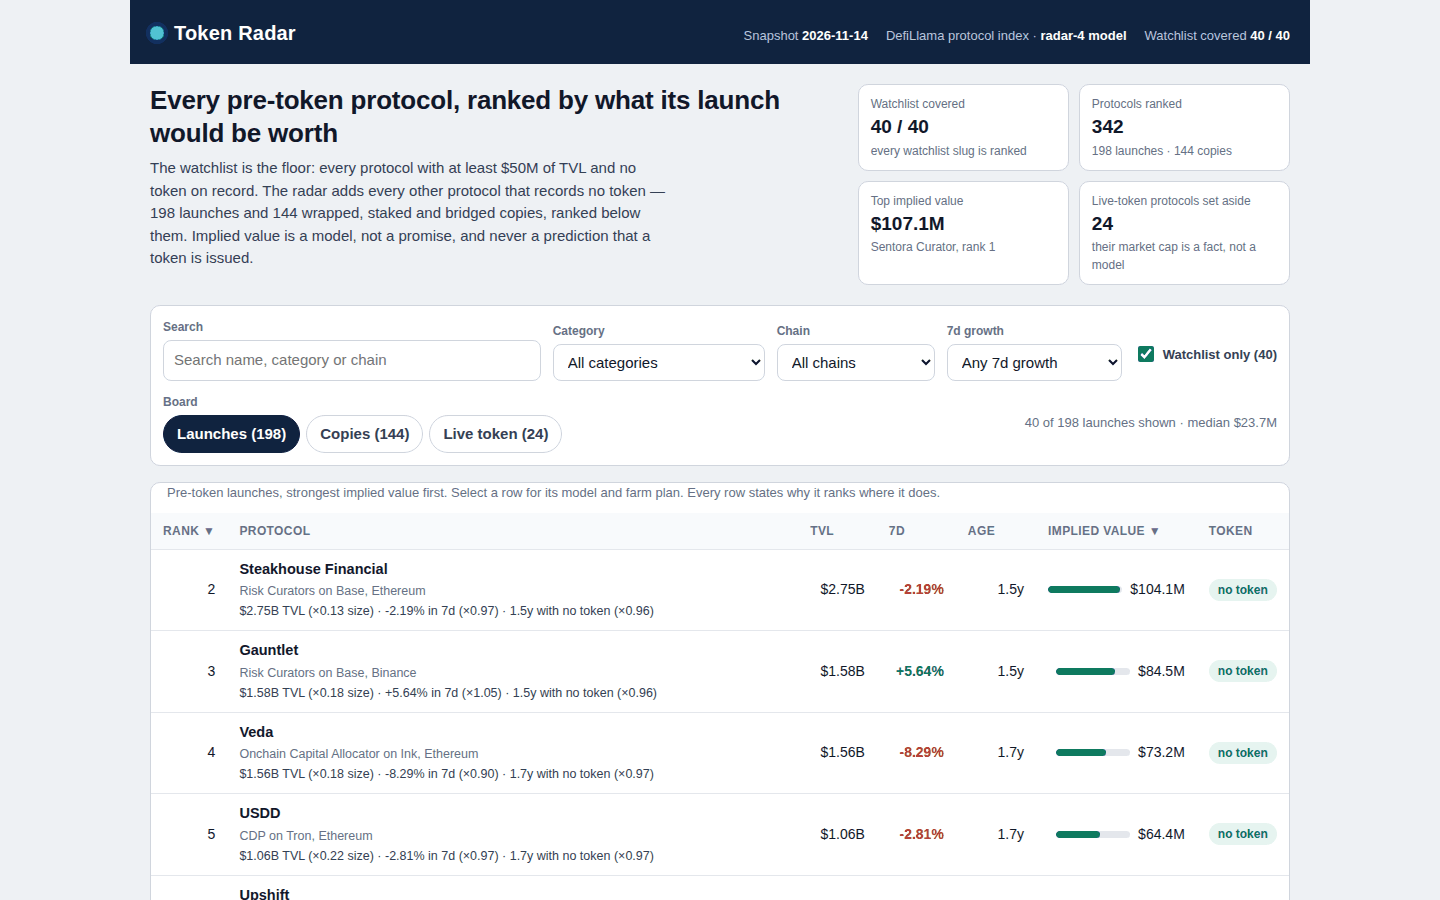
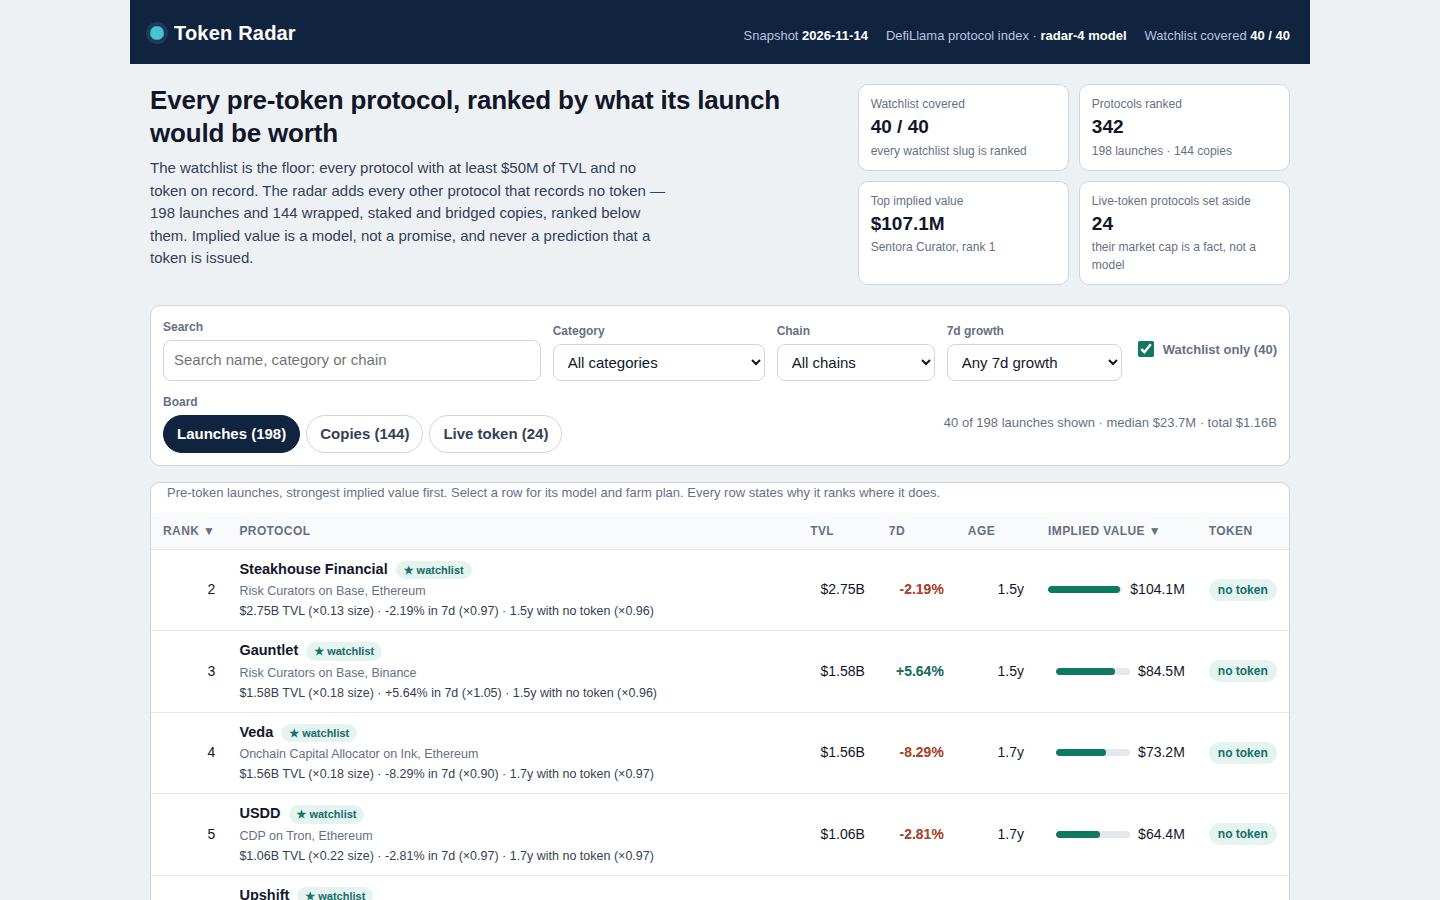
Quality round 3: model checked against the market, live mcap/TVL column, watchlist stars, filtered totals, farm step-2 TVL multiple
- Model (radar-4 formula unchanged, so the version label stays): the size
  curve is now checked against the snapshot's own 128 live-token protocols
  in the model panel - median error x3.7, 43/128 within 2x, 57 within 3x,
  median live protocol at 0.92x the curve. Audit showed no further model
  gain: exponent 0.52 beats 0.50 by ~1% (noise), quadratic term +2.5%,
  chain count corr 0.05, category factors neutral out-of-sample.
- Live tab gains a sortable Mcap/TVL column: the reader sees the shrinking
  share the size curve is fitted on instead of taking the model's word.
- Board rows on the watchlist wear a star badge; the count line adds the
  filtered set's total (board 198/198 median $8.9M total $2.70B).
- Farm step 2 states the position next to the protocol's own TVL as a
  multiple (10,000x-105,000,000x), so the exit is small next to the protocol.
- Detail screenshot is now 1440x1300 so all seven farm steps are visible.
Gate VALID=1 7/7, determinism byte-identical x3, tsc --strict 0 errors.
Top 3 and USDD rank 5 unchanged; 0 rank/implied diffs, only step-2 text
changed on all 342 rows.

diff --git a/dashboard/app.js b/dashboard/app.js
@@ -13,7 +13,10 @@
 //
 // Value grows with the square root of TVL, not linearly: the snapshot's own live-token
 // protocols trade at a median 0.89x TVL at $5-10M of TVL, 0.37x at $10-32M, 0.21x at
-// $33-95M and 0.05x above $108M, so a linear share overvalues the giants about 6x. The
+// $33-95M and 0.05x above $108M, so a linear share overvalues the giants about 6x.
+// Checked against the same 128 live-token protocols, the curve lands within 2x of the
+// market cap for 43 of them and the median live protocol sits at 0.92x the curve, so
+// the curve is centred on the typical protocol, not any single one. The
 // growth term is bounded because the TVL already records the week's move: one week of
 // momentum never erases more than half the value that remains or adds more than 60%.
 // The category factor is fitted from the same snapshot's live protocols (at most
@@ -45,6 +48,14 @@
     if (days === null || days === undefined) return 'unknown';
     if (days >= 365) return (days / 365).toFixed(1) + 'y';
     return Math.max(0, Math.round(days)) + 'd';
+  }
+  // What the market already pays for a live protocol's TVL: the same ratio the size
+  // curve is fitted on, shown on the Live tab so the reader sees the shrinking share
+  // with their own eyes instead of taking the model's word for it.
+  function fmtRatio(r) {
+    if (r.mcap_usd === null || r.mcap_usd === undefined || !r.tvl_usd) return 'n/a';
+    var v = r.mcap_usd / r.tvl_usd;
+    return '×' + (v >= 0.1 ? v.toFixed(2) : v.toFixed(3));
   }
   // The model in one function: TVL, seven-day growth, age with no token and the
   // category factor — nothing else. Value grows with the square root of TVL: the
@@ -146,6 +157,7 @@
     growth: function (r) { return r.change_7d === null ? -Infinity : r.change_7d; },
     age: function (r) { return r.age_days === null ? Infinity : r.age_days; },
     mcap: function (r) { return r.mcap_usd === null ? -Infinity : r.mcap_usd; },
+    ratio: function (r) { return r.mcap_usd === null || !r.tvl_usd ? -Infinity : r.mcap_usd / r.tvl_usd; },
     implied: function (r) { return r.implied_value_usd === undefined ? (r.mcap_usd || 0) : r.implied_value_usd; }
   };
   function sortedRows(list) {
@@ -209,6 +221,9 @@
     // leaves, so a reader sees whether the filter kept the giants or the tail.
     var medians = shownRows.map(function (r) { return r.implied_value_usd === undefined ? (r.mcap_usd || 0) : r.implied_value_usd; }).sort(function (a, b) { return a - b; });
     var medianText = medians.length ? ' · median ' + fmtUsd(medians[Math.floor(medians.length / 2)]) : '';
+    // And the set's total, so the reader sees the whole weight of what the filter kept.
+    var totalValue = shownRows.reduce(function (s, r) { return s + (r.implied_value_usd === undefined ? (r.mcap_usd || 0) : r.implied_value_usd); }, 0);
+    var totalText = shownRows.length ? ' · total ' + fmtUsd(totalValue) : '';
     // The watchlist toggle: the 40 watchlist protocols alone, so a reader can check the
     // floor the board promises without the 302 other rows in the way.
     var wlBox = el('input', { type: 'checkbox', id: 'watchlist-only', 'aria-label': 'Watchlist only' });
@@ -222,7 +237,7 @@
       el('label', { class: 'check', for: 'watchlist-only' }, wlBox, ' Watchlist only (' + DATA.watchlist_size + ')'),
       el('div', { class: 'field' }, el('span', { class: 'sub', text: 'Board' }),
         el('div', { class: 'tabs' }, tabBtn('launch', 'Launches (' + DATA.launch_size + ')'), tabBtn('copy', 'Copies (' + DATA.copy_size + ')'), tabBtn('live', 'Live token (' + DATA.live_size + ')'))),
-      el('span', { class: 'count', text: shown + ' of ' + total + ' ' + tabLabel + ' shown' + medianText })
+      el('span', { class: 'count', text: shown + ' of ' + total + ' ' + tabLabel + ' shown' + medianText + totalText })
     );
   }
 
@@ -247,8 +262,12 @@
     return r.chains && r.chains.length ? r.chains.slice(0, 2).join(', ') : 'an unnamed chain';
   }
   function nameCell(r, reason) {
+    // A watchlist row wears its star in the board: the reader sees at a glance which
+    // rows are the floor the board promises, without turning the filter on.
+    var title = el('div', { class: 'name-row' }, el('b', { text: r.name }));
+    if (r.watchlist) title.appendChild(el('span', { class: 'wl', text: '★ watchlist' }));
     return el('div', { class: 'name' },
-      el('b', { text: r.name }),
+      title,
       el('span', { class: 'sub', text: (r.category || 'Other') + ' on ' + chainText(r) }),
       el('div', { class: 'reason', text: reason }));
   }
@@ -318,6 +337,7 @@
         el('td', { class: 'num', text: fmtUsd(r.tvl_usd) }),
         el('td', { class: 'num ' + (r.change_7d !== null && r.change_7d >= 0 ? 'pos' : 'neg'), text: fmtPct(r.change_7d) }),
         el('td', { class: 'num', text: fmtUsd(r.mcap_usd) }),
+        el('td', { class: 'num', text: fmtRatio(r) }),
         el('td', null, el('span', { class: 'status live', text: 'already trades' }))
       ));
     });
@@ -325,7 +345,7 @@
       el('div', { class: 'table-wrap' },
         el('table', null,
           el('caption', { text: 'Tokens that already trade, by market cap. Their market cap is a fact, not a model, so they are set aside from the pre-token ranking instead of mixed into it.' }),
-          el('thead', null, el('tr', null, el('th', { scope: 'col', text: 'Status' }), sortHeader('name', 'Protocol'), sortHeader('tvl', 'TVL'), sortHeader('growth', '7d'), sortHeader('mcap', 'Market cap'), el('th', { scope: 'col', text: 'Token' }))),
+          el('thead', null, el('tr', null, el('th', { scope: 'col', text: 'Status' }), sortHeader('name', 'Protocol'), sortHeader('tvl', 'TVL'), sortHeader('growth', '7d'), sortHeader('mcap', 'Market cap'), sortHeader('ratio', 'Mcap / TVL'), el('th', { scope: 'col', text: 'Token' }))),
           tbody
         )
       )
@@ -346,7 +366,12 @@
             return el('tr', null, el('td', { text: r[0] }), el('td', { class: 'num', text: r[1] }), el('td', { class: 'num', text: r[2] }));
           })
         )
-      )
+      ),
+      // Checked against the market, from the sealed snapshot's own 128 live-token
+      // protocols (builder audit: median |log(market cap / curve)| 1.314, so a median
+      // error of x3.7; 43 of 128 within 2x, 57 within 3x; median signed log residual
+      // -0.088, so the median live protocol sits at 0.92x the curve).
+      el('p', { text: 'Checked against the market: the same curve predicts the 128 live-token protocols\u2019 market caps with a median error of \u00d73.7 \u2014 43 of the 128 land within 2\u00d7 of their market cap, 57 within 3\u00d7, and the median live protocol sits at 0.92\u00d7 the curve, so the curve is centred on the typical protocol. Market caps scatter widely at any TVL, so the curve tracks the median protocol \u2014 which is what a ranking needs \u2014 not any single one.' })
     );
     // The category factors the snapshot fitted: only categories with 5 or more live
     // protocols get one, shrunk toward 1 and clamped to 0.80–1.25.

diff --git a/lib/model.ts b/lib/model.ts
@@ -624,6 +624,13 @@ function rewardFor(c: string): string {
   return 'points';
 }
 
+/** A TVL in the short form the farm plan uses: $2.76B, $499.1M, $5.2M. */
+function tvlText(tvl: number): string {
+  if (tvl >= 1e9) return `$${(tvl / 1e9).toFixed(2)}B`;
+  if (tvl >= 1e6) return `$${(tvl / 1e6).toFixed(1)}M`;
+  return `$${Math.round(tvl / 1e3)}K`;
+}
+
 /** How much of the chain's gas token one farm wallet needs to start, in that token. */
 function gasTokenFor(chain: string): string {
   const c = chain.toLowerCase();
@@ -672,7 +679,9 @@ function exitActionFor(p: SnapshotProtocol, chain: string): string {
  * (see rewardFor), so every step carries a number the reader can check, not a slogan.
  * The main step also names the protocol's other chains when it runs on more than
  * one, the weekly step says how many weeks to repeat it, and the hold step states
- * the all-in total — capital plus gas — so the reader knows the whole outlay.
+ * the all-in total — capital plus gas — so the reader knows the whole outlay. The
+ * main step also states the position next to the protocol's own TVL, as a multiple,
+ * so the reader sees the exit is small next to the protocol it leaves.
  */
 export function farmSteps(p: SnapshotProtocol, age: number | null): FarmStep[] {
   const chain = chainOf(p);
@@ -728,6 +737,10 @@ export function farmSteps(p: SnapshotProtocol, age: number | null): FarmStep[] {
     const more = p.chains.length > 3 ? ` and ${p.chains.length - 3} more` : '';
     steps[1]!.text += ` It also runs on ${others}${more}; farm it on ${chain}, where its main app lives.`;
   }
+  // The position next to the protocol's own size: the smallest position is still
+  // 10,000x smaller than the smallest protocol's TVL ($100 into $5M), so the exit
+  // is always small next to the protocol — stated as a multiple the reader can check.
+  steps[1]!.text += ` Its ${tvlText(p.tvl_usd)} TVL is about ${Math.round(p.tvl_usd / capital).toLocaleString('en-US')}× your $${capital} position, so unwinding it is small next to the protocol.`;
   return steps;
 }
 

diff --git a/dashboard/app.css b/dashboard/app.css
@@ -48,6 +48,8 @@ tbody tr:hover{background:#f6f9fb}
 tbody tr[data-selected="true"]{background:var(--emerald-soft)}
 .num{text-align:right;font-variant-numeric:tabular-nums;white-space:nowrap}
 .name b{display:block;font-size:14.5px}
+.name-row{display:flex;gap:8px;align-items:baseline;flex-wrap:wrap}
+.wl{font-size:11px;font-weight:700;color:var(--emerald);background:var(--emerald-soft);border-radius:999px;padding:1px 8px;white-space:nowrap}
 .name .sub,.sub{color:var(--muted);font-size:12.5px}
 .reason{color:var(--ink-soft);font-size:12.5px;margin-top:1px}
 .implied{display:flex;align-items:center;gap:8px;justify-content:flex-end}

diff --git a/README.md b/README.md
@@ -53,6 +53,16 @@ implied = round( tvl_usd × 0.30 × (50,000,000 / tvl_usd)^0.5
   hand-set. Growth and age were checked the same way after the size curve and
   barely move market cap (r = −0.15 and −0.05), so both stay small bounded
   adjustments, never the driver.
+- **Checked against the market** — the same curve predicts the snapshot's own 128
+  live-token protocols' market caps with a median error of ×3.7: 43 of the 128
+  land within 2× of their market cap, 57 within 3×, and the median live protocol
+  sits at 0.92× the curve, so the curve is centred on the typical protocol.
+  Market caps scatter widely at any TVL (the median absolute log error is 1.31),
+  so no choice of size exponent beats 0.50 by more than ~1% and no chain-count or
+  quadratic term helps at all — the curve tracks the median protocol, which is
+  what a ranking needs, not any single one. The Live tab carries each live
+  protocol's own market-cap/TVL ratio, so the reader sees the shrinking share
+  with their own eyes.
 - **Copies at 2%** — wrapped, staked and bridged products of tokens that already
   trade use the same formula at a 2% weight, rescaled so the largest copy stays
   below the smallest launch. They rank at the bottom, because a copy is not a
@@ -68,7 +78,9 @@ Every row carries seven steps, derived from the protocol's own record (category,
 chains, TVL, age): a fresh wallet funded with the chain's own gas token, the
 category's main action and a second qualifying action in the protocol's own app
 on its chain — naming the protocol's other chains when it runs on more than one
-(85 of the 198 launches do) — weekly activity with the number of weeks to repeat
+(85 of the 198 launches do) and stating the position next to the protocol's own
+TVL as a multiple, so the reader sees the exit is small next to the protocol —
+weekly activity with the number of weeks to repeat
 it, a hold of 45–90 days with the whole plan's gas budgeted (setup + weekly +
 unwind) and the all-in total stated (capital plus gas), a rewards-page check
 naming the category's own reward, and the category's own exit order. Each step
@@ -95,7 +107,9 @@ runs write identical bytes.
 - `vendor/makefun-board.ts` — the kit's dossier library, unchanged.
 - `dashboard/` — `index.html`, `app.css`, `app.js` (sortable, filterable, detail
   view; the page recomputes every row's implied value from the snapshot figures
-  and checks it against board.json).
+  and checks it against board.json; watchlist rows wear a ★ badge, the count line
+  shows the filtered set's median and total, and the Live tab shows each live
+  protocol's market-cap/TVL ratio).
 - `screenshots/` — 1-board.png, 2-detail.png, 3-filtered.png.
 - `LICENSE` — MIT.
 
